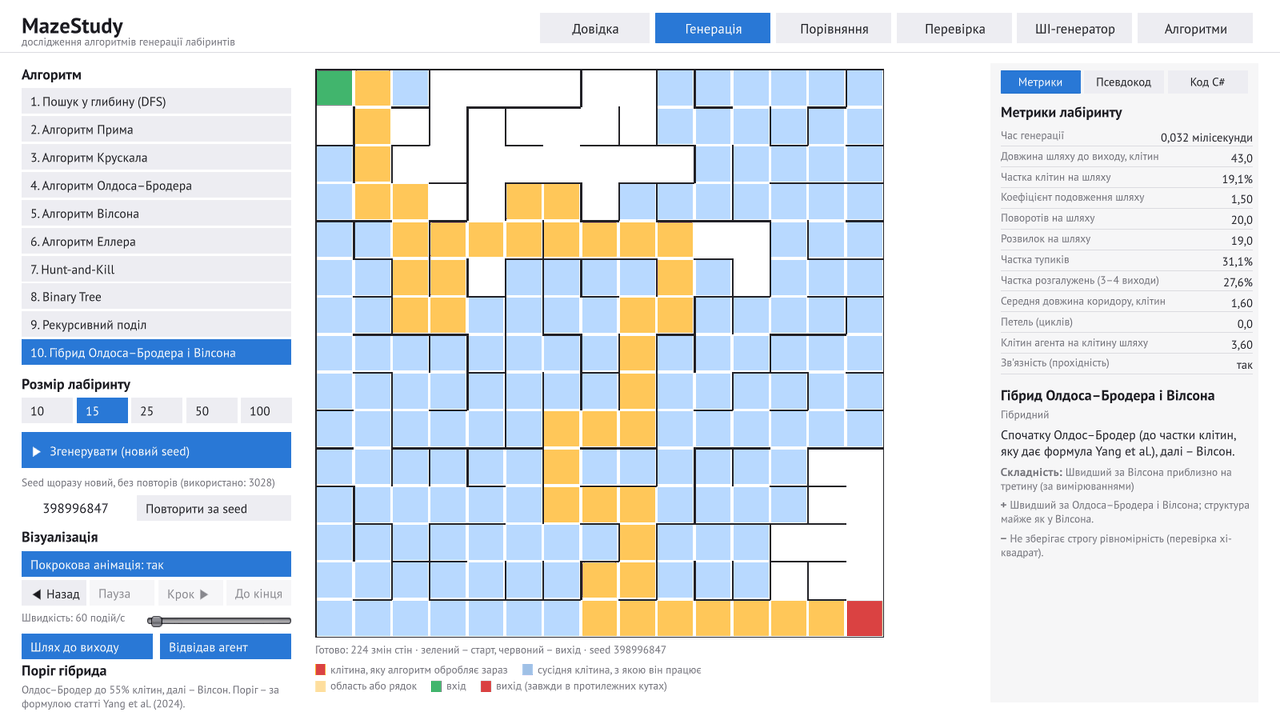
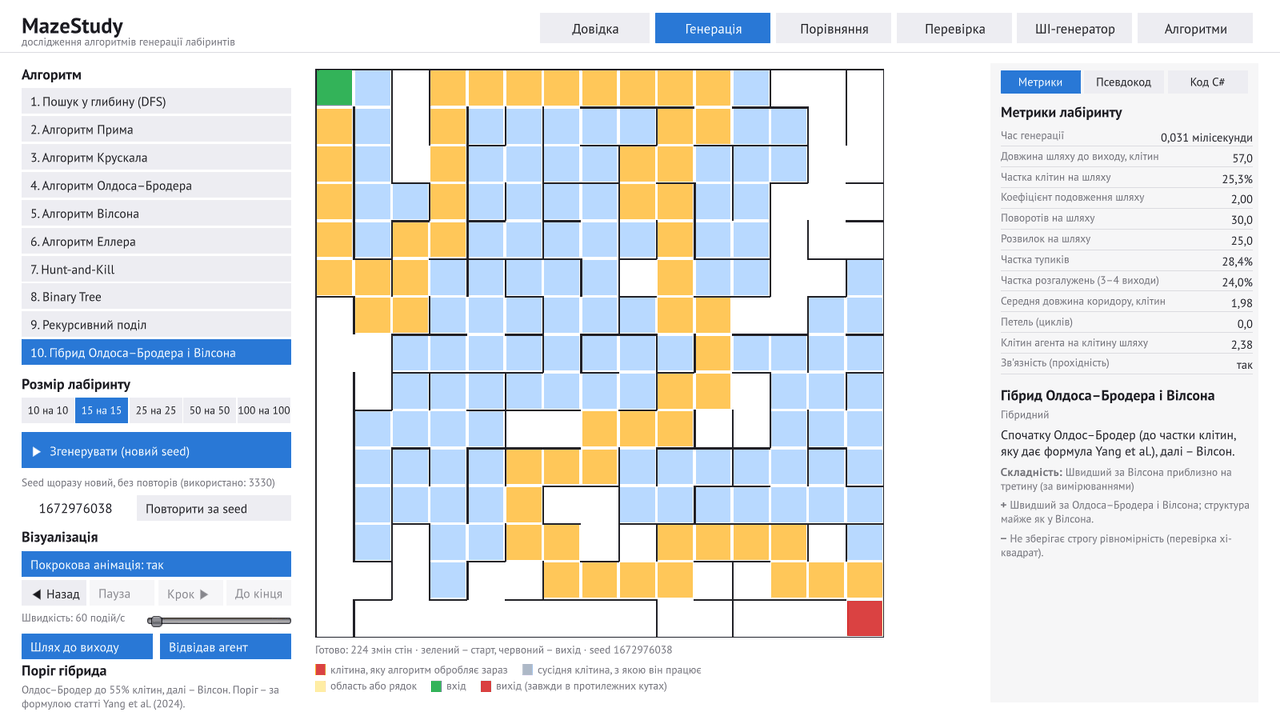
Generation tab: size buttons as N na N

diff --git a/Assets/MazeStudy/Scripts/App/StudyApp.cs b/Assets/MazeStudy/Scripts/App/StudyApp.cs
@@ -24,7 +24,7 @@ namespace MazeStudy
         Dictionary<string, double> met; double genMs;
         // права панель вкладки «Генерація»: 0 – метрики й опис, 1 – псевдокод із поточним рядком, 2 – код C# (Generators.cs)
         int rightTab = 1; Trace trace; bool traceSame = true; Vector2 srcScroll; string[] srcBlocks;
-        Font codeFont; GUIStyle codeSt, srcSt, numSt, segSt, segSel, logSt;
+        Font codeFont; GUIStyle codeSt, srcSt, numSt, segSt, segSel, segXsSt, segXs, logSt;
         const int TraceMaxSize = 50; // журнал виконання ведеться для сіток до 50×50 (далі подій надто багато)
         float PanelW => rightTab == 0 ? 298 : 452;
 
@@ -108,6 +108,8 @@ namespace MazeStudy
             logSt = new GUIStyle(S(12, Ink)) { wordWrap = false, richText = false, clipping = TextClipping.Clip };
             numSt = new GUIStyle(S(11, Muted)) { alignment = TextAnchor.UpperRight, wordWrap = false };
             segSt = new GUIStyle(tabStyle) { fontSize = 13, padding = new RectOffset(2, 2, 3, 3) }; segSel = new GUIStyle(tabSel) { fontSize = 13, padding = new RectOffset(2, 2, 3, 3) };
+            // кнопки розміру на «Генерації»: п'ять в один ряд шириною 300, тому шрифт трохи менший
+            segXsSt = new GUIStyle(segSt) { fontSize = 12, padding = new RectOffset(0, 0, 3, 3) }; segXs = new GUIStyle(segSel) { fontSize = 12, padding = new RectOffset(0, 0, 3, 3) };
             field = new GUIStyle(S(15, Ink)) { alignment = TextAnchor.MiddleCenter, normal = { background = T(Color.white), textColor = Ink }, focused = { background = T(Color.white), textColor = Ink }, border = new RectOffset(1, 1, 1, 1) };
         }
 
@@ -186,7 +188,7 @@ namespace MazeStudy
                 if (Btn(new Rect(x, y + i * 31, 300, 28), $"{i + 1}. {Generators.All[i].name}", i == algo) && i != algo) { algo = i; hasMaze = false; srcScroll = Vector2.zero; }
             y += Generators.All.Length * 31 + 8;
             GUI.Label(new Rect(x, y, 300, 22), "Розмір лабіринту", h2); y += 26;
-            for (int i = 0; i < Sizes.Length; i++) if (Btn(new Rect(x + i * 61, y, 57, 28), Sizes[i].ToString(), i == sizeIdx) && i != sizeIdx) { sizeIdx = i; hasMaze = false; }
+            for (int i = 0; i < Sizes.Length; i++) if (GUI.Button(new Rect(x + i * 60, y, 59, 28), Sz(Sizes[i]), i == sizeIdx ? segXs : segXsSt) && i != sizeIdx) { sizeIdx = i; hasMaze = false; }
             y += 38;
             if (GUI.Button(new Rect(x, y, 300, 40), "▶  Згенерувати (новий seed)", btnSel)) GenerateNew();
             y += 48;
